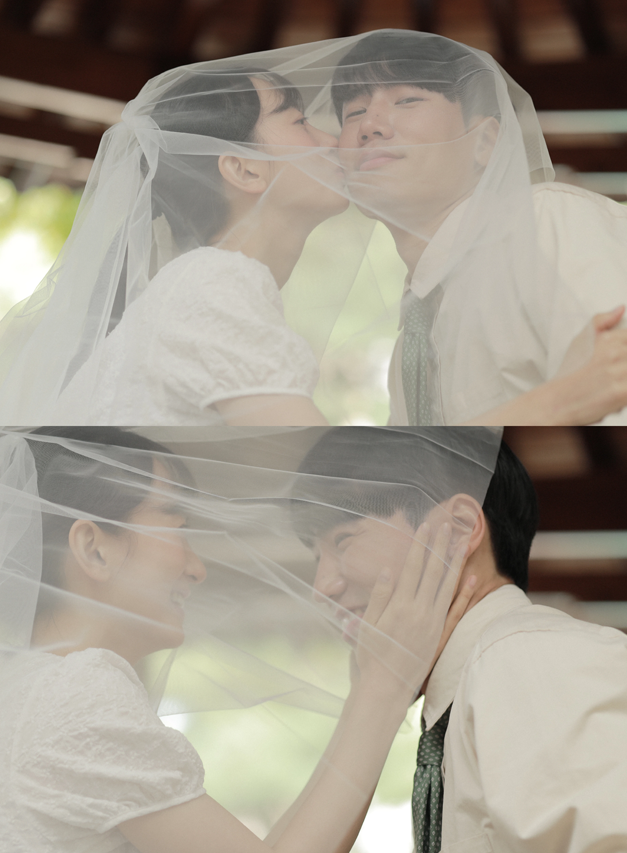
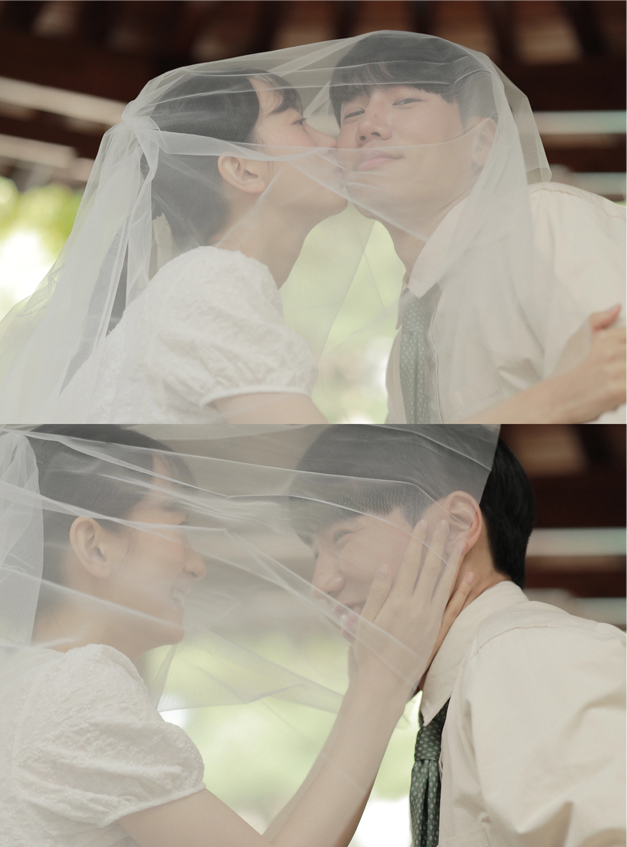
메인 이미지 변경

diff --git a/assets/css/styles.css b/assets/css/styles.css
@@ -753,7 +753,7 @@ button {
 
 .mcard-intro .photo {
   line-height: 0;
-  height: 462.16px;
+  height: 462px;
 }
 
 .mcard-intro .photo img {
@@ -842,6 +842,17 @@ button {
   position: relative;
   overflow: hidden;
   line-height: 0;
+  opacity: 0;
+  animation: fadeInOpacity 0.8s ease-in-out forwards;
+}
+
+@keyframes fadeInOpacity {
+  from {
+    opacity: 0;
+  }
+  to {
+    opacity: 1;
+  }
 }
 
 .intro-blend-image {
@@ -867,8 +878,8 @@ button {
 }
 
 .gradient-none {
-  -webkit-mask-image: linear-gradient(180deg, #000, #000);
-  mask-image: linear-gradient(180deg, #000, #000);
+  -webkit-mask-image: none;
+  mask-image: none;
 }
 
 /* 문단 래퍼 */

diff --git a/index.html b/index.html
@@ -810,8 +810,8 @@
             </div>
             <div class="copyright-wrap">
               <div class="copyright">
-                Copyright 2026. <span class="brand">FROM 백승재 최수빈</span>.
-                All rights reserved.
+                Copyright 2026.
+                <span class="brand">from MJ to JJ</span>. All rights reserved.
               </div>
             </div>
           </div>
